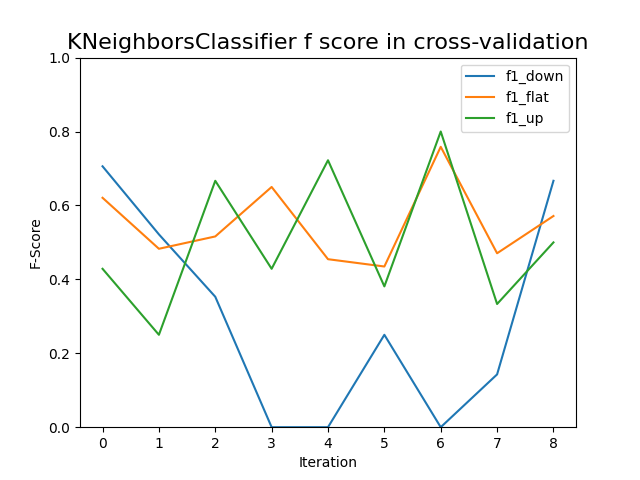
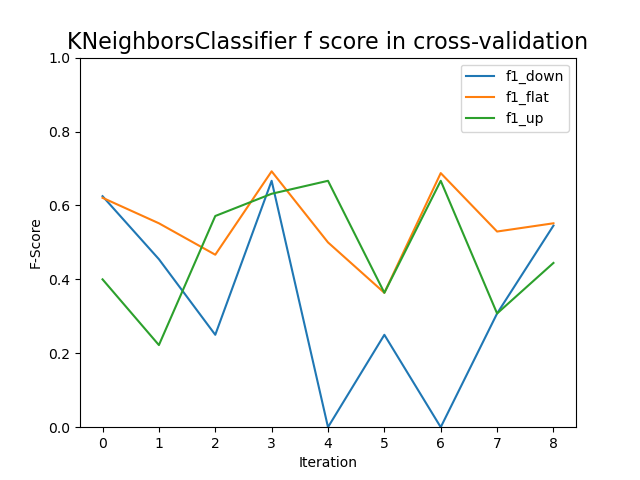
Generation of accuracy and fscore plots without volume, added the printing of average scores of cross validation, added rankings of kbest

diff --git a/main.py b/main.py
@@ -13,7 +13,7 @@ from sklearn.decomposition import PCA
 from sklearn.ensemble import RandomForestClassifier, AdaBoostClassifier
 from sklearn.feature_selection import SelectKBest, chi2, f_classif, mutual_info_classif, mutual_info_regression
 from sklearn.linear_model import LogisticRegression
-from sklearn.metrics import accuracy_score, f1_score
+from sklearn.metrics import accuracy_score, f1_score, precision_score, recall_score
 from sklearn.model_selection import train_test_split, TimeSeriesSplit
 from sklearn.compose import ColumnTransformer
 from sklearn.pipeline import Pipeline
@@ -35,7 +35,7 @@ EXPORT_CLASSIFIER = False
 PLOT_GRAPH = False
 
 CRYPTO_CURRENCY = "BTC-USD"
-BEST_CLASSIFIER = 3 #LinearRegression
+BEST_CLASSIFIER = 0  # RandomForest
 
 
 def scraper(crypto_name):
@@ -126,7 +126,6 @@ def plot_accuracy_cross_validation(clf, scores):
     plt.savefig('plots/plot-accuracy-cross-validation/' + str(clf).split('(')[0] + '.png')
 
 
-
 def plot_fscore_cross_validation(clf, f1_down, f1_flat, f1_up):
     # print(str(f1_down)+","+str(f1_flat)+","+str(f1_up))
     try:
@@ -147,19 +146,31 @@ def plot_fscore_cross_validation(clf, f1_down, f1_flat, f1_up):
     plt.savefig('plots/plot-fscore-cross-validation/' + str(clf).split('(')[0] + '.png')
 
 
-def create_preprocessor(predictors, pca_comp):
+def create_preprocessor(pred, comp):
     numeric_transformer = Pipeline(steps=[
         ('scaler', StandardScaler()),  # Standardize features by removing the mean and scaling to unit variance
-        ('attributeSelection', SelectKBest(score_func=mutual_info_regression, k=7)),
-        ("pca", PCA(n_components=pca_comp))
+        ("pca", PCA(n_components=comp))
     ])
-
-    numeric_features = predictors
 
     return ColumnTransformer(
         transformers=[
-            ('numeric', numeric_transformer, numeric_features)
+            ('numeric', numeric_transformer, pred)
         ])
+
+
+def ranking_attributes_contribution(dataset):
+    X = dataset[predictors]  # independent columns
+    y = dataset[['trend']]  # target column
+
+    bestfeatures = SelectKBest(score_func=mutual_info_regression, k='all')
+    fit = bestfeatures.fit(X, y)
+    dfscores = pd.DataFrame(fit.scores_)
+    dfcolumns = pd.DataFrame(X.columns)
+
+    # concat two dataframes for better visualization
+    featureScores = pd.concat([dfcolumns, dfscores], axis=1)
+    featureScores.columns = ['Specs', 'Score']  # naming the dataframe columns
+    print(featureScores.nlargest(8, 'Score'))
 
 
 def cross_validation(dataset, predictors, classifier):
@@ -173,6 +184,14 @@ def cross_validation(dataset, predictors, classifier):
     f1_scores_down = []
     f1_scores_flat = []
     f1_scores_up = []
+
+    precision_scores_down = []
+    precision_scores_flat = []
+    precision_scores_up = []
+
+    recall_scores_down = []
+    recall_scores_flat = []
+    recall_scores_up = []
     for train_index, test_index in tscv.split(dataset):
         print("--------------------------------------------------------------------------")
         # print("TRAIN:", train_index, "\n TEST:", test_index)
@@ -208,17 +227,25 @@ def cross_validation(dataset, predictors, classifier):
         print(metrics.classification_report(y_test, y_pred))
 
         f1 = f1_score(y_test, y_pred, average=None)
+        precision = precision_score(y_test, y_pred, average=None)
+        recall = recall_score(y_test, y_pred, average=None)
 
         try:
             f1_scores_down.append(f1[0])
+            precision_scores_down.append(precision[0])
+            recall_scores_down.append(recall[0])
         except Exception as e:
             print("Exception: " + str(e))
         try:
             f1_scores_flat.append(f1[1])
+            precision_scores_flat.append(precision[1])
+            recall_scores_flat.append(recall[1])
         except Exception as e:
             print("Exception: " + str(e))
         try:
             f1_scores_up.append(f1[2])
+            precision_scores_up.append(precision[2])
+            recall_scores_up.append(recall[2])
         except Exception as e:
             print("Exception: " + str(e))
 
@@ -226,7 +253,9 @@ def cross_validation(dataset, predictors, classifier):
     print("F1 OVERALL MEAN FOR LABEL -1: " + str(np.mean(f1_scores_down)) + " / FOR LABEL 0: " + str(
         np.mean(f1_scores_flat)) + " / FOR LABEL 1: " + str(
         np.mean(f1_scores_up)) + " FOR CLASSIFIER: " + str(classifier))
-    return np.mean(accuracy_scores), np.mean(f1_scores_down), np.mean(f1_scores_flat), np.mean(f1_scores_up), \
+    return np.mean(accuracy_scores), np.mean(f1_scores_down), np.mean(f1_scores_flat), np.mean(f1_scores_up),   \
+           np.mean(precision_scores_down), np.mean(precision_scores_flat), np.mean(precision_scores_up),        \
+           np.mean(recall_scores_down),  np.mean(recall_scores_flat), np.mean(recall_scores_up),                \
            accuracy_scores, f1_scores_down, f1_scores_flat, f1_scores_up
 
 
@@ -281,9 +310,7 @@ if __name__ == '__main__':
                   'low',
                   'adj_close',
                   'ema_short',
-                  'ema_long',
-                  'diff_ema',
-                  'volume'
+                  'ema_long'
                   ]
 
     if PLOT_GRAPH:
@@ -291,8 +318,8 @@ if __name__ == '__main__':
         # we can only perform one: show() or savefig()
         plt.show()
         plt.savefig('plots/labelled-graph.png')
-        #plot_correlation_matrix(dataset)
-        #plot_pca_scatter(dataset, predictors, CRYPTO_CURRENCY.split('-')[0])
+        # plot_correlation_matrix(dataset)
+        # plot_pca_scatter(dataset, predictors, CRYPTO_CURRENCY.split('-')[0])
 
     # CLASSIFIERS TRAINING
     classifiers = [
@@ -303,27 +330,39 @@ if __name__ == '__main__':
         GaussianNB()
     ]
 
-    overall_accuracy_avg_means = {}
-    overall_f1 = {}
+    final_table = {}
+
+    overall_accuracy = {}
+    overall_down = {}
+    overall_flat = {}
+    overall_up = {}
+
     for classifier in classifiers:
-        avg_accuracy, f1_avg_down, f1_avg_flat, f1_avg_up, accuracy_scores, f1_down, f1_flat, f1_up = cross_validation(
-            dataset, predictors, classifier)
+        avg_accuracy, f1_avg_down, f1_avg_flat, f1_avg_up, precision_avg_down, precision_avg_flat,\
+        precision_avg_up, recall_avg_down, recall_avg_flat, recall_avg_up, accuracy_scores,\
+        f1_down, f1_flat, f1_up = cross_validation(dataset, predictors, classifier)
 
         # we plot the result of the cross validation iterations for each model
         plot_accuracy_cross_validation(classifier, accuracy_scores)
         plot_fscore_cross_validation(classifier, f1_down, f1_flat, f1_up)
 
-        overall_accuracy_avg_means[str(classifier)] = avg_accuracy
-        overall_f1[str(classifier)] = str(f1_avg_down) + "\t" + str(f1_avg_flat) + "\t" + str(f1_avg_up)
+        overall_accuracy[str(classifier)] = "{:.3f}".format(avg_accuracy)
+        overall_down[str(classifier)] = "{:.2f}".format(precision_avg_down) + "\t"*2 + "{:.2f}".format(recall_avg_down) + "\t"*2 + "{:.2f}".format(f1_avg_down)
+        overall_flat[str(classifier)] = "{:.2f}".format(precision_avg_flat) + "\t"*2 + "{:.2f}".format(recall_avg_flat) + "\t"*2 + "{:.2f}".format(f1_avg_flat)
+        overall_up[str(classifier)] = "{:.2f}".format(precision_avg_up) + "\t"*2 + "{:.2f}".format(recall_avg_up) + "\t"*2 + "{:.2f}".format(f1_avg_up)
 
     print("\n")
-    print(
-        "CLASSIFIER NAME \t\t\t\t\t ACCURACY MEAN \t\t F1 SCORE MEAN FOR -1 \t F1 SCORE MEAN FOR 0 \t F1 SCORE MEAN FOR 1")
+    print("Classifier name" + "\t"*3 + "class" + "\t" + "precision" + "\t" + "recall" + "\t"*2 + "f1-score" + "\t" + "accuracy")
     for classifier in classifiers:
-        print(str(classifier) + "\t\t\t\t" + str(overall_accuracy_avg_means[str(classifier)]) + "\t" + str(
-            overall_f1[str(classifier)]))
+        print(str(classifier).split('(')[0])
 
-    print("\nThe classifier that performs better in terms of Accuracy and F1-score is the " + str(classifiers[BEST_CLASSIFIER]))
+        print("\t" * 6 + '-1.0' + '\t' * 1 + overall_down[str(classifier)] + '\t'*2 + overall_accuracy[str(classifier)])
+        print("\t" * 6 + '0.0' + '\t' * 2 + overall_flat[str(classifier)])
+        print("\t" * 6 + '1.0 ' + '\t' * 1 + overall_up[str(classifier)])
+        print()
+
+    print("\nThe classifier that performs better in terms of Accuracy and F1-score is the " + str(
+        classifiers[BEST_CLASSIFIER]))
 
     # TRAINING WITH THE FINAL MODEL
 
@@ -376,3 +415,5 @@ if __name__ == '__main__':
             , ('classifier', classifiers[BEST_CLASSIFIER])
         ]).fit(x_final_train, y_final_train.values.ravel())
         joblib.dump(final_pipe, filename)
+
+    ranking_attributes_contribution(dataset)
